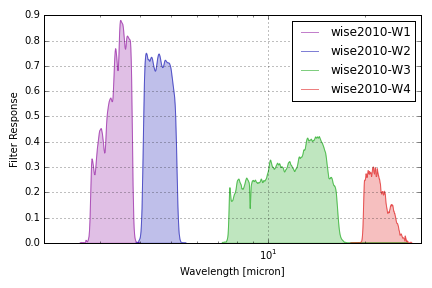
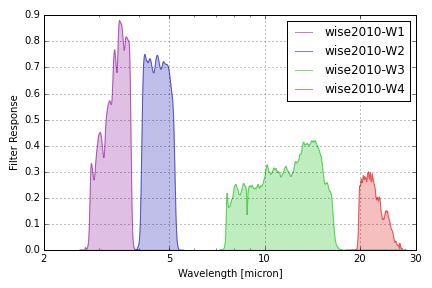
Do not call show() in plot_filters() and improve WISE plot axes

Changed region(s): [[0.0, 0.0625, 0.9931, 0.9688], [0.6019, 0.375, 0.6319, 0.4375], [0.0602, 0.1875, 0.0903, 0.25]]

diff --git a/speclite/filters.py b/speclite/filters.py
@@ -1213,10 +1213,13 @@ def load_filter_group(group_name):
 
 def plot_filters(group_name=None, names=None, wavelength_unit=None,
                  wavelength_limits=None, wavelength_scale='linear',
-                 legend_loc='upper right', cmap='nipy_spectral', save=None):
+                 legend_loc='upper right', cmap='nipy_spectral'):
     """Plot one or more filter response curves.
 
-    The matplotlib package must be installed to use this function.
+    The matplotlib package must be installed to use this function. The
+    :meth:`show <matplotlib.pylot.show` method is not called after creating
+    the plot to allow convenient customization and saving. As a result, you will
+    normally need to call this method yourself.
 
     Parameters
     ----------
@@ -1242,9 +1245,6 @@ def plot_filters(group_name=None, names=None, wavelength_unit=None,
         Color map to use for plotting each filter band.  Colors are assigned
         based on each band's effective wavelength, so a spectral color map
         (from blue to red) will give nice results.
-    save : str
-        Filename to use for saving this plot, or do not save any plot if this
-        is None.  See :func:`matplotlib.pyplot.savefig` for details.
     """
     if group_name is None and names is None:
         raise ValueError('Must specify group_name and/or names.')
@@ -1315,7 +1315,3 @@ def plot_filters(group_name=None, names=None, wavelength_unit=None,
     if legend_loc is not None:
         plt.legend(loc = legend_loc)
     plt.grid()
-    plt.tight_layout()
-    if save is not None:
-        plt.savefig(save)
-    plt.show()

diff --git a/speclite/tests/test_filters.py b/speclite/tests/test_filters.py
@@ -331,8 +331,3 @@ def test_plot_filters_limits():
         plot_filters(names=['sdss2010-r'], wavelength_limits=(1*u.erg,2))
     with pytest.raises(ValueError):
         plot_filters(names=['sdss2010-r'], wavelength_limits=(1,2*u.erg))
-
-
-def test_plot_filters_save(tmpdir):
-    save = str(tmpdir.join('save.png'))
-    plot_filters(names=['sdss2010-r'], save=save)

diff --git a/docs/filters.rst b/docs/filters.rst
@@ -57,11 +57,13 @@ Issue 6, pp. 1868-1881 (2010)
 
 The group name ``wise2010`` is used to identify these response curves in
 ``speclite``.  The plot below shows the output of the command below, and matches
-Figure 4 of the paper::
+Figure 6 of the paper::
 
     speclite.filters.plot_filters('wise2010',
         wavelength_unit=astropy.units.micron, wavelength_scale='log',
         wavelength_limits=(2, 30))
+    plt.gca().set_xticks([2, 5, 10, 20, 30])
+    plt.gca().set_xticklabels([2, 5, 10, 20, 30])
 
 .. image:: _static/wise2010.png
     :alt: wise2010 filter curves
